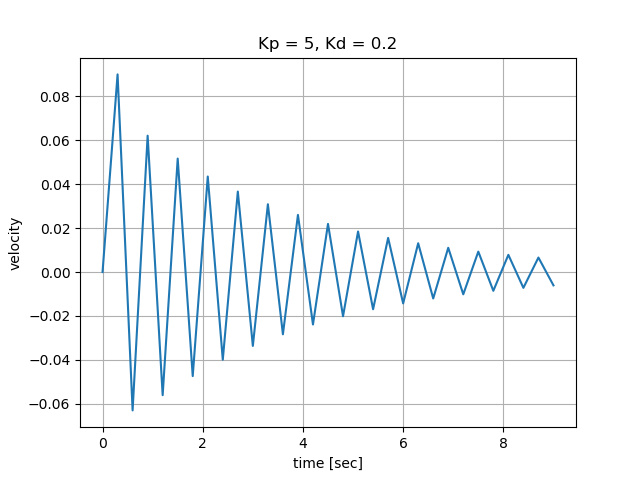
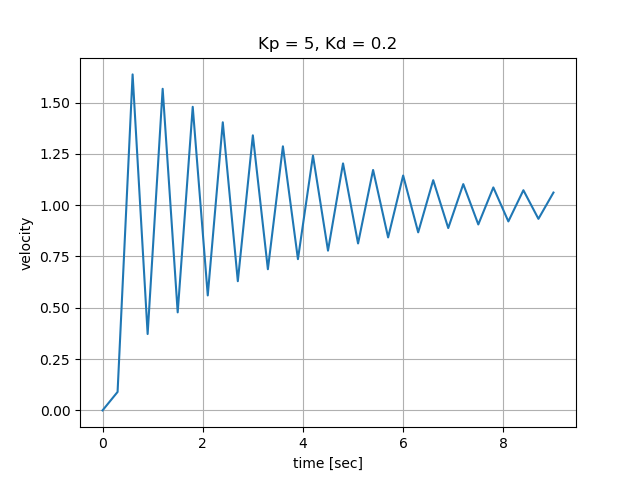
corrected error, prev_error was incorrectly set

diff --git a/module_motor_control/lesson1/kpkd.py b/module_motor_control/lesson1/kpkd.py
@@ -14,12 +14,12 @@ desiredVelocity = 1.0     # m/s
 
 # PID control constants
 kp = 5         # proportional gain term
-kd = 0.025        # derivative control term
+kd = 0.2       # derivative control term
 
 # initial values
 acceleration = 0.3       # m/s^2
 presentVelocity = 0.0     # m/s
-prevError = desiredVelocity = presentVelocity
+prevError = 0.0
 
 dt = 0.3       # sample time interval, sec
 count = 0       # loop count
@@ -35,11 +35,17 @@ while count < 30:
     velocity.append(presentVelocity)
     error = desiredVelocity - presentVelocity
     derrdt = (error - prevError) / dt 
-    print("\ncount: " + str(count))
-    print("present velocity: " + str(presentVelocity))
-    print("error: " + str(error))
-    print("acceleration: " + str(acceleration))
-    acceleration = kp * error + kd * derrdt
+    pterm = kp * error
+    dterm = kd * derrdt 
+    print("\ncount:              " + str(count))
+    print("acceleration:         " + str(acceleration))
+    print("present velocity:     " + str(presentVelocity))
+    print("error:                " + str(error))
+    print("derrdt:               " + str(derrdt))
+    print("p term:               " + str(pterm))
+    print("d term:               " + str(dterm))
+    
+    acceleration = pterm + dterm
     if abs(acceleration) > accelLimit:
         if acceleration > 0:
             acceleration = accelLimit 
